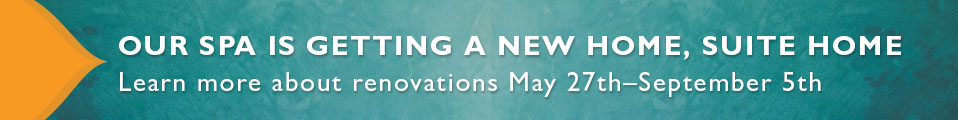
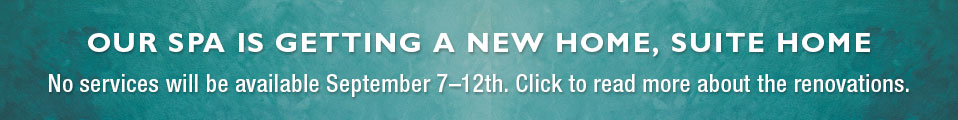
spa reno update

Changed region(s): [[0.0, 0.0, 0.9687, 1.0]]

diff --git a/spa-renovation/index.php b/spa-renovation/index.php
@@ -50,13 +50,21 @@ j=d.createElement(s),dl=l!='dataLayer'?'&l='+l:'';j.async=true;j.src=
       <!--<a class="btn-list scroll" href="https://travaasa.ticketbud.com/jamandjive" target="_blank">PURCHASE TICKETS</a>&nbsp;&nbsp;&nbsp;&nbsp;<a class="btn-list scroll" href="/preferences"target="_blank">GET UPDATES</a>-->
       <br>
 
-<p>The Spa at Travaasa Austin will be spending some time getting renewed! The primary facilities will be closed June 1st – September 1st for renovations. The Watsu pool will be unavailable from May 21st – September 2nd.</p>
+<p>The Spa at Travaasa Austin will be spending some time getting renewed! The primary facilities will be closed June 1st – September 12th for renovations. The Watsu pool will be unavailable from May 21st – September 12th.</p>
 
 <p>In the meantime, we’re transforming our entire Alamo Hacienda into a collection of private suites for our spa's home away from home. The living room style parlor will serve as the new spa front desk. You can look forward to fresh fruit in the morning, and tea and cookies in the afternoon.</p>
 
-<p>For a select number of transition days when no spa facilities are available (May 27–31 and September 2–5), we will be offering only Swedish or Deep Tissue Massages in your guest room at original spa menu pricing (no additional fee for in-room service).</p>
+<p>For a select number of transition days (September 7th–12th), there will be <u><strong>no spa facilities or services available</strong></u>.</p>
 
 <h4><strong>Our infinity edge pool will be open throughout the renovation.</strong></h4><br>
+<div class="group">
+                  <div class="col span_1_of_5"><a href="/assets/images/gallery/austin/1433-spa-reno-01.jpg" data-flare-gallery="wedding1" data-target="flare" data-flare-scale="fitmax" title="Weddings at Travaasa"><img class="lazy" data-original="/assets/images/gallery/austin/100-spa-reno-01.jpg" src="/assets/images/global/placeholder.gif" width="170" height="170" alt="Spa Renovation"></a></div>
+                  <div class="col span_1_of_5"><a href="/assets/images/gallery/austin/1433-spa-reno-02.jpg" data-flare-gallery="wedding1" data-target="flare" data-flare-scale="fitmax" title="Weddings at Travaasa"><img class="lazy" data-original="/assets/images/gallery/austin/100-spa-reno-02.jpg" src="/assets/images/global/placeholder.gif" width="170" height="170" alt="Spa Renovation"></a></div>
+                  <div class="col span_1_of_5"><a href="/assets/images/gallery/austin/1433-spa-reno-03.jpg" data-flare-gallery="wedding1" data-target="flare" data-flare-scale="fitmax" title="Weddings at Travaasa"><img class="lazy" data-original="/assets/images/gallery/austin/100-spa-reno-03.jpg" src="/assets/images/global/placeholder.gif" width="170" height="170" alt="Spa Renovation"></a></div>
+                  <div class="col span_1_of_5"><a href="/assets/images/gallery/austin/1433-spa-reno-04.jpg" data-flare-gallery="wedding1" data-target="flare" data-flare-scale="fitmax" title="Weddings at Travaasa"><img class="lazy" data-original="/assets/images/gallery/austin/100-spa-reno-04.jpg" src="/assets/images/global/placeholder.gif" width="170" height="170" alt="Spa Renovation"></a></div>
+            </div>
+
+
 
 <p><a class="btn-jorah" href="/austin/travaasa-spa-overview/">Take me back to the Spa</a></p>
 

diff --git a/austin/travaasa-spa-overview/index.php b/austin/travaasa-spa-overview/index.php
@@ -241,7 +241,7 @@ We offer an array of massages, healing rituals, beauty treatments and personaliz
                 <h4>Watsu&#174; Aquatic Massage</h4>
                 <p>Watsu uses the warmth and buoyancy of 96-degree water and a combination of unique stretches and natural movements in a secluded pool to help improve circulation, relieve nerve pressure and lessen stress, arthritis, anxiety and chronic pain. Our certified Watsu practitioners will fit the 60-minute treatment to your liking and body’s needs.</p>
                 <!--<h5>50 minutes &#8211; $140</h5>-->
-                <h5 style="color:#ea5965;"><em>Watsu unavailable May 21st through September 7th during <a href="/spa-renovation" target="_blank">renovations</a>.</em></h5>
+                <h5 style="color:#ea5965;"><em>Watsu unavailable May 21st through September 12th during <a href="/spa-renovation" target="_blank">renovations</a>.</em></h5>
             </section>
             <section class="spa_package">
                 <h4>TRAVAASA CUSTOM MASSAGE</h4>
